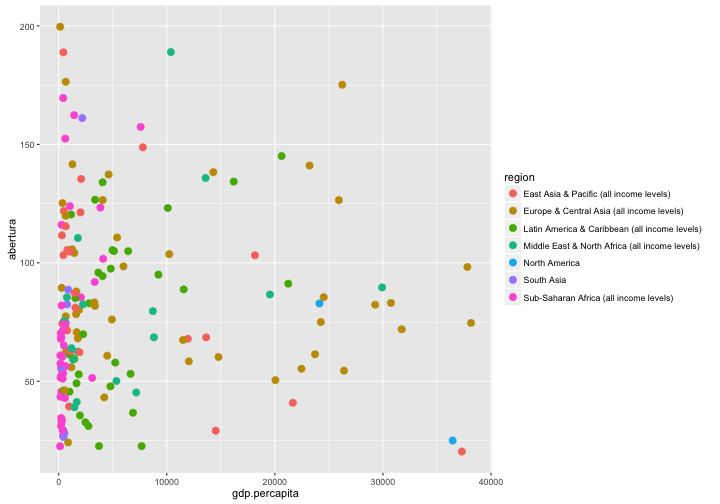
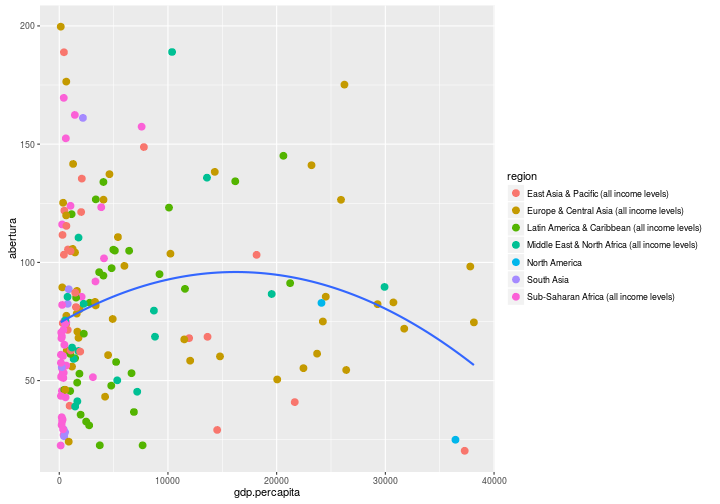
fim post 1 ggplot2

diff --git a/source/_posts/2016-08-26-visualizacao-de-dados-parte-1.md b/source/_posts/2016-08-26-visualizacao-de-dados-parte-1.md
@@ -1,7 +1,7 @@
 ---
 layout: post
 title: "Visualização de dados - Parte 1: Introdução ao ggplot2"
-date: 2016-08-26 19:22:00 -0300
+date: 2016-09-07 19:01:00 -0300
 comments: true
 categories: [ggplot2, visualizações]
 published: true
@@ -10,13 +10,12 @@ published: true
 
 
 
-## Visualização de dados
 
-A visualização de dados é parte fundamental do [_workflow_]({{root_url}}/blog/2016/03/14/como-aplicar-ciencia-de-dados/) de um analista de dados. Essa tarefa é muito importante tanto para explorar os dados, como para comunicar resultados. Ou seja, dominar ferramentas de visualização é imprescindível. E aí que entra o ggplot2.
+A visualização de dados é parte fundamental do [_workflow_]({{root_url}}/blog/2016/03/14/como-aplicar-ciencia-de-dados/) de um analista de dados. Essa tarefa é muito importante tanto para explorar os dados, como para comunicar resultados. Ou seja, dominar ferramentas de visualização é imprescindível. E é aí que entra o ggplot2.
 
 <!-- More -->
 
-[Ggplot2](http://ggplot2.org/) é um pacote essencial para quem deseja trabalhar com análise de dados no R. O código nativo do R até possui funcões básicas visualizações, mas essas funções, são mais usadas para uma exploração rápida dos dados, algo próximo de um rascunho. 
+O [ggplot2](http://ggplot2.org/) é um pacote essencial para quem deseja trabalhar com análise de dados no R. O código nativo do R até possui funções básicas de visualizações, mas essas funções são mais usadas para uma exploração rápida dos dados, algo próximo de um rascunho. 
 
 Por sua vez, o ggplot2 pode ser usado tanto para criação rápida de gráficos quanto para criar gráficos complexos e detalhados. Tornando-se um pacote bastante versátil e completo.
 
@@ -39,18 +38,14 @@ Feita essa introdução, iremos construir alguns exemplos para demonstrar o func
 
 Antes de partir para criação dos gráficos, precisamos dos dados. Neste post, utilizaremos dados do Banco Mundial, mais especificamente, o _World Development Indicators_. O interessante é que existe um pacote em R, o `WDI`, que torna a importação desses dados direta, sem que seja necessário ir no site do Banco Mundial e baixar os dados.
 
-
-{% highlight r %}
-library(WDI)
-library(dplyr)
-library(ggplot2)
-{% endhighlight %}
-
 Essa base de dados possui uma infinidade de indicadores. Aqui serão utilizadas dois indicadores: grau de abertura (exportações + importações sobre o PIB) e PIB per capita calculado pela Paridade de Poder Compra (PPP) em US$. A escolha desses indicadores deve-se ao fato de querermos elaborar um gráfico similar ao elaborado na página 16 do [A Practical Guide do Trade Policy Analysis](https://www.wto.org/english/res_e/publications_e/wto_unctad12_e.pdf).
 
 Utilizaremos a função `WDIsearch()` para encontrar os nomes dos indicadores desejados. 
 
 {% highlight r %}
+library(WDI)
+library(dplyr)
+library(ggplot2)
 WDIsearch("Trade \\(% of GDP\\)") 
 {% endhighlight %}
 
@@ -204,7 +199,7 @@ No gráfico abaixo, como não passamos nada no parâmetro `geom`, o `qplot()` au
 qplot(x = gdp.percapita, y = abertura, data = dados)
 {% endhighlight %}
 
-<img src="/figures/source/2016-08-26-visualizacao-de-dados-parte-1/unnamed-chunk-5-1.png" title="plot of chunk unnamed-chunk-5" alt="plot of chunk unnamed-chunk-5" style="display: block; margin: auto;" />
+<img src="/figures/source/2016-08-26-visualizacao-de-dados-parte-1/unnamed-chunk-4-1.png" title="plot of chunk unnamed-chunk-4" alt="plot of chunk unnamed-chunk-4" style="display: block; margin: auto;" />
 
 O mesmo resultado poderia ser obtido com:
 
@@ -213,9 +208,9 @@ O mesmo resultado poderia ser obtido com:
 qplot(x = gdp.percapita, y = abertura, data = dados, geom = "point")
 {% endhighlight %}
 
-<img src="/figures/source/2016-08-26-visualizacao-de-dados-parte-1/unnamed-chunk-6-1.png" title="plot of chunk unnamed-chunk-6" alt="plot of chunk unnamed-chunk-6" style="display: block; margin: auto;" />
+<img src="/figures/source/2016-08-26-visualizacao-de-dados-parte-1/unnamed-chunk-5-1.png" title="plot of chunk unnamed-chunk-5" alt="plot of chunk unnamed-chunk-5" style="display: block; margin: auto;" />
 
-Agora, suponha que queremos coloria os pontos de acordo com a região de cada país. Basta dizeremos o nome da variável no parâmetro `color`. O mesmo pode ser feito, por exemplo, para os parâmetros `size` e `shape`. O `size` pode ser um tamanho fixo dos pontos ou pode ser dado por uma variável, usualmente, numérica. 
+Agora, suponha que queremos colorir os pontos de acordo com a região de cada país. Basta informar o nome da variável no parâmetro `color`. O mesmo pode ser feito, por exemplo, para os parâmetros `size` e `shape`. O `size` pode ser um tamanho fixo dos pontos ou pode ser dado por uma variável, usualmente, numérica. 
 
 
 {% highlight r %}
@@ -223,7 +218,7 @@ qplot(x = gdp.percapita, y = abertura, data = dados, geom = "point",
       color = region, size = I(4))
 {% endhighlight %}
 
-<img src="/figures/source/2016-08-26-visualizacao-de-dados-parte-1/unnamed-chunk-7-1.png" title="plot of chunk unnamed-chunk-7" alt="plot of chunk unnamed-chunk-7" style="display: block; margin: auto;" />
+<img src="/figures/source/2016-08-26-visualizacao-de-dados-parte-1/unnamed-chunk-6-1.png" title="plot of chunk unnamed-chunk-6" alt="plot of chunk unnamed-chunk-6" style="display: block; margin: auto;" />
 
 Usamos a função `I()` para evitar que a função entenda o `5` como uma nova variável.
 
@@ -235,16 +230,16 @@ Essa função inicia um gráfico. A partir daí, a adição de camadas é que fa
 
 Vamos seguir passo à passo.
 
-Primeiramente inicamos um gráfico informando os dados e, no `aes()`, descrevendo como as variáveis dos dados são mapeadas na visualização. Só foi informado que o eixo x e o eixo y são dados, respectivamente, pelas variáveis `gdp.percapita` e `abertura`. Como não adicionados nenhum objeto geométrico, nada mais é mostrado.
+Primeiramente inciamos um gráfico informando os dados e, no `aes()`, descrevendo como as variáveis dos dados são mapeadas na visualização. Só foi informado que o eixo x e o eixo y são dados, respectivamente, pelas variáveis `gdp.percapita` e `abertura`. Como não adicionados nenhum objeto geométrico, nada mais é mostrado.
 
 
 {% highlight r %}
 ggplot(dados, aes(x = gdp.percapita, y = abertura))
 {% endhighlight %}
 
-<img src="/figures/source/2016-08-26-visualizacao-de-dados-parte-1/unnamed-chunk-8-1.png" title="plot of chunk unnamed-chunk-8" alt="plot of chunk unnamed-chunk-8" style="display: block; margin: auto;" />
+<img src="/figures/source/2016-08-26-visualizacao-de-dados-parte-1/unnamed-chunk-7-1.png" title="plot of chunk unnamed-chunk-7" alt="plot of chunk unnamed-chunk-7" style="display: block; margin: auto;" />
 
-Seguindo, vamos adicionar uma camada de pontos e definir o seu tamnanho igual a 3. Além disso, vamos mapear as cores dos pontos à variável `region`.
+Seguindo, vamos adicionar uma camada de pontos e definir o seu tamanho igual a 3. Além disso, vamos mapear as cores dos pontos à variável `region`.
 
 
 {% highlight r %}
@@ -252,7 +247,7 @@ ggplot(dados, aes(x = gdp.percapita, y = abertura)) +
   geom_point(aes(color = region), size = 3)
 {% endhighlight %}
 
-<img src="/figures/source/2016-08-26-visualizacao-de-dados-parte-1/unnamed-chunk-9-1.png" title="plot of chunk unnamed-chunk-9" alt="plot of chunk unnamed-chunk-9" style="display: block; margin: auto;" />
+<img src="/figures/source/2016-08-26-visualizacao-de-dados-parte-1/unnamed-chunk-8-1.png" title="plot of chunk unnamed-chunk-8" alt="plot of chunk unnamed-chunk-8" style="display: block; margin: auto;" />
 
 No gráfico que nos baseamos nesse post, os autores adicionam uma curva estimada para evidenciar a possível relação entre a renda per capita e o grau de abertura. No caso, os autores incluem uma curva obtida a partir da estimação de um modelo polinomial de ordem 2. Ou seja, $y_i = \beta_{0} + \beta_1 x_i + \beta_2 x_i^2 + u_i$.
 
@@ -263,7 +258,7 @@ ggplot(dados, aes(x = gdp.percapita, y = abertura)) +
   geom_smooth(method = 'lm', formula = y ~ poly(x, 2), se = FALSE)
 {% endhighlight %}
 
-<img src="/figures/source/2016-08-26-visualizacao-de-dados-parte-1/unnamed-chunk-10-1.png" title="plot of chunk unnamed-chunk-10" alt="plot of chunk unnamed-chunk-10" style="display: block; margin: auto;" />
+<img src="/figures/source/2016-08-26-visualizacao-de-dados-parte-1/unnamed-chunk-9-1.png" title="plot of chunk unnamed-chunk-9" alt="plot of chunk unnamed-chunk-9" style="display: block; margin: auto;" />
 
 Em seguida, iremos alterar alguns detalhes do gráfico anterior. Podemos criar um objeto com um gráfico do ggplot2 e ir adicionando/alterando partes do gráfico de maneira incremental.
 
@@ -311,7 +306,7 @@ p <- p +
 p
 {% endhighlight %}
 
-<img src="/figures/source/2016-08-26-visualizacao-de-dados-parte-1/unnamed-chunk-15-1.png" title="plot of chunk unnamed-chunk-15" alt="plot of chunk unnamed-chunk-15" style="display: block; margin: auto;" />
+<img src="/figures/source/2016-08-26-visualizacao-de-dados-parte-1/unnamed-chunk-14-1.png" title="plot of chunk unnamed-chunk-14" alt="plot of chunk unnamed-chunk-14" style="display: block; margin: auto;" />
 
 Ou então podemos fazer tudo de uma só vez:
 
@@ -331,25 +326,21 @@ p <- ggplot(dados, aes(x = log(gdp.percapita), y = abertura)) +
 p
 {% endhighlight %}
 
-<img src="/figures/source/2016-08-26-visualizacao-de-dados-parte-1/unnamed-chunk-16-1.png" title="plot of chunk unnamed-chunk-16" alt="plot of chunk unnamed-chunk-16" style="display: block; margin: auto;" />
+<img src="/figures/source/2016-08-26-visualizacao-de-dados-parte-1/unnamed-chunk-15-1.png" title="plot of chunk unnamed-chunk-15" alt="plot of chunk unnamed-chunk-15" style="display: block; margin: auto;" />
 
 
 ## Considerações Finais
 
-Este primeiro post é uma introdução ao ggplot2. Esperamos que tenha entendido a ideia geral de um gráfico no ggplot2, o conceito de camadas e como é o processo de incrementar os elementos um gráfico.
+Este primeiro post é uma introdução ao ggplot2. Esperamos que tenha entendido a ideia geral de um gráfico no ggplot2, o conceito de camadas e como é o processo de incrementar os elementos de um gráfico.
 
 A melhor forma para aprender sobre o pacote é tentando criar os seus próprios gráficos. Todavia, continuaremos com posts sobre este pacote, elaborando outros exemplos mais avançados e tratando de detalhes de customização, de objetos geométricos, de extensões etc. 
 
 Se tiver alguma dúvida, deixe um comentário.
 
-<script src="https://cdnjs.cloudflare.com/ajax/libs/jquery/3.1.0/jquery.min.js"></script>
-
-<script>
-var replaced = $("body").html().replace("Ggplot2", "ggplot2");
-$("body").html(replaced);
-</script>
 
 ## Referências
 
-* []()
-
+* [Site Oficial: ggplot2](http://ggplot2.org/)
+* [Cookbook for R - Graphs](http://www.cookbook-r.com/Graphs/)
+* [ggplot2 extensions](https://www.ggplot2-exts.org/)
+* [ggplot2 cheatsheet](https://www.rstudio.com/wp-content/uploads/2015/03/ggplot2-cheatsheet.pdf)

diff --git a/source/_posts/2016-08-22-manipulacao-de-dados-parte-2.md b/source/_posts/2016-08-22-manipulacao-de-dados-parte-2.md
@@ -4,7 +4,7 @@ title: "Manipulação de dados - Parte 2: tidyr"
 date: 2016-08-30 20:00:00 -0300
 comments: true
 categories: [tidyr, manipulação de dados]
-published: true
+published: false
 ---
 
 Dando continuidade à série sobre manipulação de dados, hoje falaremos sobre o pacote tidyr. Trata-se de um pacote muito bom para manipular a estrutura do seus dados e "arrumá-los" de um jeito mais apropriado de acordo com seu objetivo.
@@ -31,9 +31,6 @@ IMAGEM TABELA ESTRUTURADA
 
 Para começar, instale, carregue e dê uma rápida olhada na documentação do dplyr. Em seguida cobriremos suas principais funções:
 
-{% highlight text %}
-## Error in library(tidyr): there is no package called 'tidyr'
-{% endhighlight %}
 
 
 {% highlight r %}
